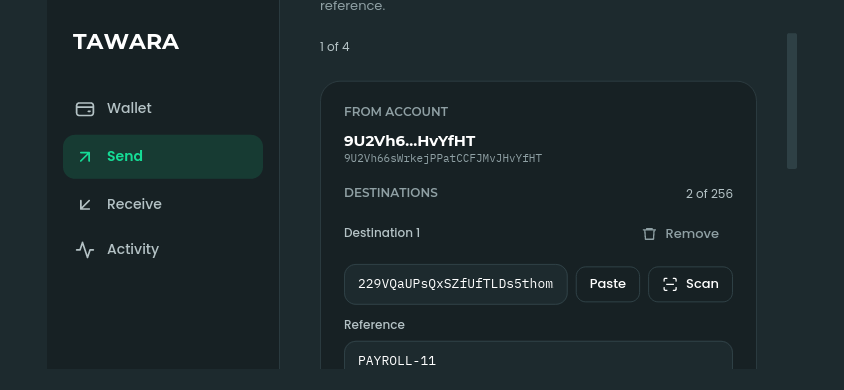
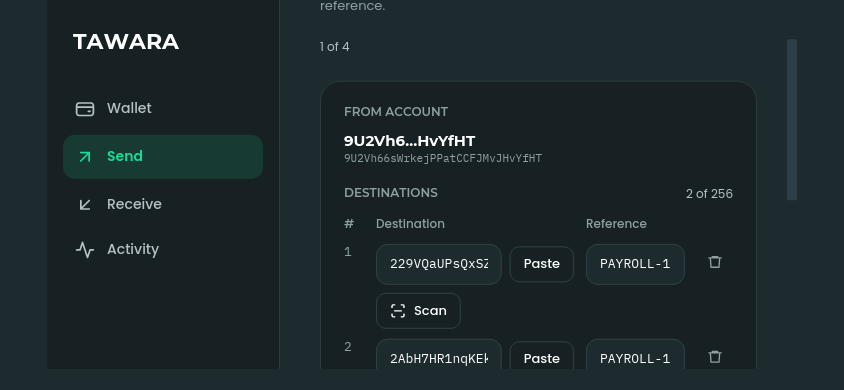
Scan stands beneath each destination's field on a phone
A phone's Paste stays beside its destination's field, and its Scan now
stands on a line of its own beneath the field, upright as well as sideways
(owner, 2026-10-18). The blocks of the To page and of the re-sign form (W8)
take their address from address_field, the field the table's cells take:
the field with its Paste beside it, and the Scan button beneath it where a
shell gives a scanner. At 360 wide the field keeps 200 pixels or more with
its Paste beside it, so Paste does not move. The desktop's fields are
unchanged.

Screenshots: phone-w4-send-to-scan is re-rendered; phone-w4-send-to-sideways
is re-rendered too, since it drew the upright blocks and now draws the table
the width change makes. phone-w8-resign-scan (W8 with a shell's scanner) and
phone-w4-send-amount-sideways (page 2 held sideways, with the fee and the
block-to-live side by side) are new. The desktop images and the other phone
images are byte-identical.

The Scan-placement test expects Scan beneath the field at every width, and
the W8 fit test holds W8 at 360 by 640 and 390 by 844, bare and with a
scanner, with its first destination at least 200 pixels wide.

diff --git a/crates/app/src/screens/wallet/send.rs b/crates/app/src/screens/wallet/send.rs
@@ -122,10 +122,10 @@ pub fn scanner<'a>(model: &'a Model, page: &'a WalletPage) -> Element<'a, Messag
 /// Cancel (docs/DECISIONS.md D42 item 3).
 const VIEWFINDER: f32 = 200.0;
 
-/// The Scan button beside destination row `row` on a phone whose shell gives a
-/// scanner (docs/DECISIONS.md D42 item 1): drawn with the Scan glyph, and enabled
-/// while nothing is being done for the page and no scan is under way. `None`
-/// where no scanner is offered, which is every desktop.
+/// The Scan button of destination row `row`, which stands beneath the row's field
+/// on a phone whose shell gives a scanner (docs/DECISIONS.md D42 item 1): drawn
+/// with the Scan glyph, and enabled while nothing is being done for the page and no
+/// scan is under way. `None` where no scanner is offered, which is every desktop.
 fn scan_button<'a>(model: &Model, row: usize) -> Option<Element<'a, Message>> {
     model.scan_offered().then(|| {
         let idle = model.busy.is_none() && model.scanning.is_none();
@@ -140,13 +140,13 @@ fn scan_button<'a>(model: &Model, row: usize) -> Option<Element<'a, Message>> {
     })
 }
 
-/// The field of destination row `n` in a table row, with the buttons a phone has
-/// (docs/DECISIONS.md D32 item 10 (g), D42 item 1). On a phone the Paste button
-/// stands beside the field, and the Scan button, where a shell gives a scanner, on
-/// a line of its own beneath it (owner, 2026-10-18). On the desktop the field is
-/// the cell's alone. `shown` is the form the Paste button records, as
-/// [`destinations`] records it.
-fn table_field<'a>(
+/// The address field of destination row `n`, with the buttons a phone has, in a
+/// table row's cell or in a block (docs/DECISIONS.md D32 item 10 (g), D42 item 1).
+/// On a phone the Paste button stands beside the field, and the Scan button, where
+/// a shell gives a scanner, on a line of its own beneath it, at every width (owner,
+/// 2026-10-18). On the desktop the field stands alone. `shown` is the form the Paste
+/// button records, as [`destinations`] records it.
+fn address_field<'a>(
     model: &Model,
     n: usize,
     to: iced::widget::TextInput<'a, Message>,
@@ -406,7 +406,7 @@ fn to_page<'a>(
             let mut line = column![
                 row![
                     t((i + 1).to_string(), ty::MONO, color::TEXT_MUTED).width(Length::Fixed(20.0)),
-                    container(table_field(model, i, to, shown)).width(Length::FillPortion(6)),
+                    container(address_field(model, i, to, shown)).width(Length::FillPortion(6)),
                     container(reference).width(Length::FillPortion(3)),
                     table_remove(
                         (idle && several).then(|| Message::Wallet(WalletMsg::RemoveDestination(i)))
@@ -434,19 +434,11 @@ fn to_page<'a>(
                 Some(Icon::Trash),
                 (idle && several).then(|| Message::Wallet(WalletMsg::RemoveDestination(i))),
             );
-            // The Paste button beside the field, on a phone at any width, and the
-            // Scan button beside that where a shell gives a scanner, as
-            // [`destinations`] has them (docs/DECISIONS.md D32 item 10 (g), D42
-            // item 1).
-            let mut address = row![to.width(Length::Fill)];
-            if model.phone() {
-                address = address.push(paste::button(shown.map(|(form, rows)| {
-                    Message::Paste(PasteInto::Destination { form, row: i, rows })
-                })));
-                if let Some(scan) = scan_button(model, i) {
-                    address = address.push(scan);
-                }
-            }
+            // The Paste button stands beside the field, on a phone at any width, and
+            // the Scan button, where a shell gives a scanner, on a line of its own
+            // beneath it, as [`destinations`] has them (docs/DECISIONS.md D32 item 10
+            // (g), D42 item 1; owner, 2026-10-18).
+            let address = address_field(model, i, to, shown);
             let mut block = column![
                 row![
                     t(
@@ -458,10 +450,7 @@ fn to_page<'a>(
                     remove,
                 ]
                 .align_y(Alignment::Center),
-                address
-                    .spacing(sp::S8)
-                    .align_y(Alignment::Center)
-                    .width(Length::Fill),
+                address,
             ]
             .spacing(sp::S12);
             if let Some(why) = refused.get(&(i, RefusedField::Address)) {
@@ -701,10 +690,10 @@ fn amount_page<'a>(
 /// desktop and on a phone held sideways, they are rows of a table with the fees
 /// side by side (docs/SCREENS.md, "Compact layout"; docs/DECISIONS.md D32 item 10
 /// (b), D39 item 5; owner, 2026-10-18). The Paste and Scan buttons follow
-/// `phone()`, so a phone held sideways has them in the table.
+/// `phone()`: a phone's Paste stands beside each field and its Scan beneath it,
+/// upright and sideways alike (owner, 2026-10-18).
 fn destinations<'a>(model: &'a Model, f: &'a SpendForm) -> Element<'a, Message> {
     let idle = model.busy.is_none();
-    let phone = model.phone();
     let table = !model.compact();
     let field = |value: &'a str, placeholder: &'a str, mono: bool| {
         let face = if mono { ty::MONO } else { ty::FIELD };
@@ -762,11 +751,11 @@ fn destinations<'a>(model: &'a Model, f: &'a SpendForm) -> Element<'a, Message> 
         if table {
             // A table row, as the desktop has it. On a phone the destination's cell
             // holds its Paste button beside the field and its Scan button beneath
-            // (see `table_field`).
+            // (see `address_field`).
             list = list.push(
                 row![
                     t((i + 1).to_string(), ty::MONO, color::TEXT_MUTED).width(Length::Fixed(20.0)),
-                    container(table_field(model, i, to, shown)).width(Length::FillPortion(6)),
+                    container(address_field(model, i, to, shown)).width(Length::FillPortion(6)),
                     container(amount).width(Length::FillPortion(3)),
                     container(reference).width(Length::FillPortion(3)),
                     remove,
@@ -782,18 +771,9 @@ fn destinations<'a>(model: &'a Model, f: &'a SpendForm) -> Element<'a, Message> 
             // The destination takes the width, and the amount and the
             // reference sit side by side beneath it, so that a long
             // destination is not cut short on a phone (D32 item 10 (b)).
-            // Beside the destination stand its Paste button (docs/DECISIONS.md
-            // D32 item 10 (g)) and, where a shell gives a scanner, its Scan
-            // button (D42 item 1).
-            let mut address = row![to.width(Length::Fill)];
-            if phone {
-                address = address.push(paste::button(shown.map(|(form, rows)| {
-                    Message::Paste(PasteInto::Destination { form, row: i, rows })
-                })));
-                if let Some(scan) = scan_button(model, i) {
-                    address = address.push(scan);
-                }
-            }
+            // Beside the destination stands its Paste button (docs/DECISIONS.md
+            // D32 item 10 (g)), and beneath it, where a shell gives a scanner, its
+            // Scan button (D42 item 1; owner, 2026-10-18).
             list = list.push(
                 column![
                     row![
@@ -807,10 +787,7 @@ fn destinations<'a>(model: &'a Model, f: &'a SpendForm) -> Element<'a, Message> 
                     ]
                     .width(Length::Fill)
                     .align_y(Alignment::Center),
-                    address
-                        .spacing(sp::S8)
-                        .align_y(Alignment::Center)
-                        .width(Length::Fill),
+                    address_field(model, i, to, shown),
                     row![
                         column![
                             t("Amount (MCM)", ty::FORM_LABEL, color::TEXT_SECONDARY),
@@ -2076,7 +2053,7 @@ mod tests {
             ("page 1 with the account set aside", set_aside_model),
             ("page 1 with the account list open", list),
             (
-                "page 1 with a scanner, so Scan stands by each destination",
+                "page 1 with a scanner, so Scan stands beneath each destination's field",
                 with_scanner(
                     phone_at(stage_page(to(), typed()), width),
                     ScanPreview::Shell,
@@ -2543,14 +2520,33 @@ mod tests {
 
     #[test]
     fn w8_fits_a_phone_screen() {
-        let model = phone(
+        // W8 at both phone sizes, bare and with a shell's scanner: its Paste stands
+        // beside each field and its Scan beneath it, and nothing passes the edge
+        // (docs/DECISIONS.md D32 item 10 (b), D42 item 1; owner, 2026-10-18).
+        let page = || {
             Page::Resign(ResignPage {
                 account: accounts()[1],
                 form: typed(),
-            }),
-            None,
-        );
-        assert_eq!(fits(screens::view(&model), NARROWEST), Ok(()));
+            })
+        };
+        for (width, height) in PHONES {
+            let bare = phone_at(page(), width);
+            let scanned = with_scanner(phone_at(page(), width), ScanPreview::Shell);
+            for model in [bare, scanned] {
+                assert_eq!(
+                    fits_at(screens::view(&model), width, height),
+                    Ok(()),
+                    "at {width} by {height}"
+                );
+            }
+            // The first destination keeps the width its card gives less its Paste.
+            let model = phone_at(page(), width);
+            let field = focusable_bounds_at(screens::view(&model), width, height)[0];
+            assert!(
+                field.width >= 200.0,
+                "at {width} by {height} the destination is {field:?}"
+            );
+        }
     }
 
     #[test]
@@ -2722,9 +2718,10 @@ mod tests {
     }
 
     #[test]
-    fn on_a_phone_a_destination_beside_its_paste_and_its_scan_keeps_the_rest_of_its_row() {
-        // With a scanner, the Scan button stands beside the Paste button, and the
-        // destination still takes what the two leave of its row, at 360 and at 390.
+    fn on_a_phone_a_destination_beside_its_paste_and_its_scan_beneath_it() {
+        // With a scanner, the Paste button stands beside the field and the Scan
+        // button beneath it, on a line of its own, so the destination keeps the width
+        // its card gives less the Paste, at 360 and at 390 (owner, 2026-10-18).
         for width in [NARROWEST, 390.0] {
             let model = with_scanner(
                 phone_at(stage_page(SendStage::To(BTreeMap::new()), typed()), width),
@@ -2735,12 +2732,16 @@ mod tests {
             let paste = pastes_at(&model, width)[0];
             let scan = scans_at(&model, width)[0];
             assert!(
-                field.width >= 120.0,
+                field.width >= 200.0,
                 "at {width} wide the destination is {field:?}"
             );
             assert!(
-                field.x + field.width < paste.x && paste.x + paste.width < scan.x,
-                "the field, the Paste and the Scan run in that order: {field:?}, {paste:?}, {scan:?}"
+                field.x + field.width < paste.x && paste.y < field.y + field.height,
+                "the Paste stands beside the field: {paste:?}, {field:?}"
+            );
+            assert!(
+                scan.y > field.y + field.height && scan.x < paste.x,
+                "the Scan stands beneath the field: {scan:?}, {field:?}"
             );
         }
     }
@@ -2809,12 +2810,12 @@ mod tests {
     }
 
     #[test]
-    fn a_scan_button_stands_with_each_paste_and_none_without_a_scanner() {
-        // A Scan button for each destination row, on page 1 and on the re-sign
-        // form (docs/DECISIONS.md D42 item 1). Upright it stands beside its Paste.
-        // In the table of a phone held sideways it stands on a line of its own,
-        // beneath the field (owner, 2026-10-18). A phone whose shell gives no
-        // scanner has none.
+    fn a_scan_button_stands_beneath_each_field_and_none_without_a_scanner() {
+        // A Scan button for each destination row, on page 1 and on the re-sign form
+        // (docs/DECISIONS.md D42 item 1). At every width the Paste stands beside the
+        // field and the Scan on a line of its own beneath it, upright and in the
+        // table of a phone held sideways (owner, 2026-10-18). A phone whose shell
+        // gives no scanner has none.
         let pages = || {
             [
                 stage_page(SendStage::To(BTreeMap::new()), typed()),
@@ -2825,7 +2826,6 @@ mod tests {
             ]
         };
         for width in [NARROWEST, 390.0, 600.0, 844.0, 1023.0] {
-            let upright = width < crate::app::COMPACT;
             for page in pages() {
                 let model = with_scanner(phone_at(page.clone(), width), ScanPreview::Shell);
                 let pastes = pastes_at(&model, width);
@@ -2833,20 +2833,16 @@ mod tests {
                 assert_eq!(scans.len(), 2, "at {width} wide");
                 assert_eq!(pastes.len(), 2, "at {width} wide");
                 for (paste, scan) in pastes.iter().zip(&scans) {
-                    if upright {
-                        assert!(
-                            scan.x > paste.x + paste.width && (scan.y - paste.y).abs() < 1.0,
-                            "the Scan button stands to the Paste button's right: {scan:?}, {paste:?}"
-                        );
-                    } else {
-                        // The Paste stands beside the field, so a Scan that is
-                        // lower than the Paste stands beneath the field.
-                        assert!(
-                            scan.y > paste.y + 20.0,
-                            "the Scan button stands beneath the field at {width} wide: \
-                             {scan:?}, {paste:?}"
-                        );
-                    }
+                    // Each Scan is lower than its own Paste, which stands beside the
+                    // field, so the Scan stands beneath the field. Its x is not
+                    // compared: at 600 the table's cell is so narrow that the Paste
+                    // sits at its left edge, and the Scan's label may start to the
+                    // Paste's right.
+                    assert!(
+                        scan.y > paste.y + 20.0,
+                        "the Scan button stands beneath the field at {width} wide: \
+                         {scan:?}, {paste:?}"
+                    );
                 }
                 assert_eq!(
                     fits(screens::view(&model), width),

diff --git a/crates/app/examples/screenshots.rs b/crates/app/examples/screenshots.rs
@@ -29,7 +29,11 @@
 //! buttons (`phone-w4-send-to-scan.png`), the same page held sideways, 844 by
 //! 390 (`phone-w4-send-to-sideways.png`), and the scanner's own page, drawn by
 //! the application with a stand-in frame (`phone-w4-send-scan-preview.png`)
-//! (docs/DECISIONS.md D42). The recovery phrase after a screenshot is drawn at
+//! (docs/DECISIONS.md D42). The re-sign form with a shell's scanner is drawn
+//! as `phone-w8-resign-scan.png`, and page 2 held sideways, 844 by 390, with
+//! the fee and the block-to-live side by side, as
+//! `phone-w4-send-amount-sideways.png` (docs/DECISIONS.md D42; owner,
+//! 2026-10-18). The recovery phrase after a screenshot is drawn at
 //! 390 by 844, with the warning in the words' place
 //! (`phone-s4-phrase-photographed.png`), and while the screen is captured
 //! (`phone-s4-phrase-captured.png`) (docs/DECISIONS.md D44 items 1 and 3). The
@@ -39,7 +43,7 @@
 //! (`phone-w1-wallet-offer.png`), and Settings with the unlock's row
 //! (`phone-w11-settings-device.png`) (docs/DECISIONS.md D45 item 4). The
 //! desktop offers no device unlock, so they are the phone's alone. So the
-//! phone's images are 84 in all. Every piece of text names a bundled face
+//! phone's images are 86 in all. Every piece of text names a bundled face
 //! (`tawara_app::fonts`), so the pixels do not depend on the fonts a machine
 //! has installed.
 //!
@@ -856,6 +860,10 @@ const SIDEWAYS: (u32, u32) = (844, 390);
 /// How far the sideways To page is scrolled down, in logical pixels, so that its
 /// first destination's row, with its Paste and its Scan, is in the window.
 const SIDEWAYS_SCROLL: f32 = 90.0;
+/// How far the sideways amounts page is scrolled down, in logical pixels, so that
+/// its table's header and rows, and the fee and the block-to-live side by side,
+/// are in the window.
+const SIDEWAYS_AMOUNTS_SCROLL: f32 = 100.0;
 /// A short phone's height (docs/DECISIONS.md D44 item 2): under 733 pixels
 /// between its insets, so the recovery phrase is drawn in two frames on it.
 /// D44 item 2 gives the 733, held as `PHRASE_ONE_FRAME` in
@@ -1088,6 +1096,17 @@ fn phones(width: u32) -> Vec<Image> {
         focus: None,
         scroll: Some(SIDEWAYS_SCROLL),
     });
+    // Page 2 held sideways: the amounts as the table's rows, and the fee and the
+    // block-to-live side by side, in the width a sideways phone has (owner,
+    // 2026-10-18; docs/DECISIONS.md D42).
+    out.push(Image {
+        name: "phone-w4-send-amount-sideways".to_owned(),
+        size: SIDEWAYS,
+        model: phone_sideways(phone_named("w4-send-amount")),
+        to_end: false,
+        focus: None,
+        scroll: Some(SIDEWAYS_AMOUNTS_SCROLL),
+    });
     out.push(Image {
         name: "phone-w4-send-scan-preview".to_owned(),
         size,
@@ -1096,6 +1115,20 @@ fn phones(width: u32) -> Vec<Image> {
                 phone_named("w4-send-to"),
                 ScanPreview::Application,
             )),
+            0.0,
+        ),
+        to_end: false,
+        focus: None,
+        scroll: None,
+    });
+    // The re-sign form (W8) with a shell's scanner: its Paste stands beside each
+    // field, and its Scan beneath it (docs/DECISIONS.md D42 item 1; owner,
+    // 2026-10-18).
+    out.push(Image {
+        name: "phone-w8-resign-scan".to_owned(),
+        size,
+        model: phone(
+            with_scanner(phone_named("w8-resign"), ScanPreview::Shell),
             0.0,
         ),
         to_end: false,
